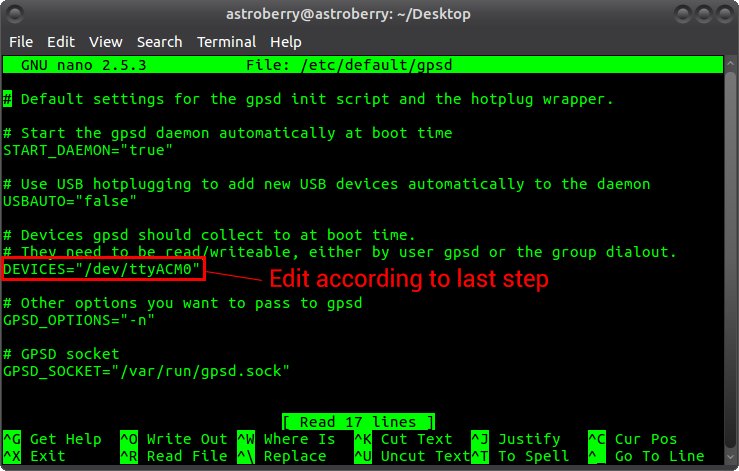
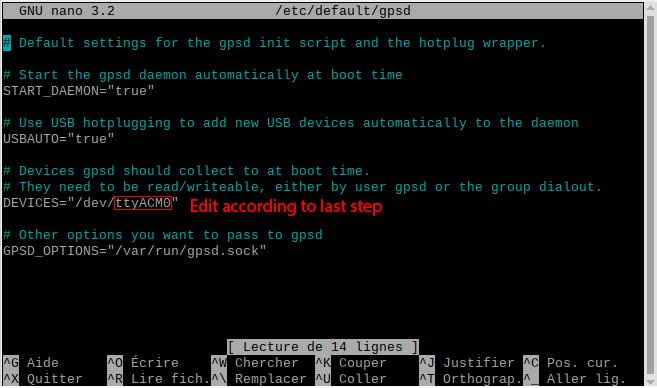
Update tutorial for Raspberry Pi 4 and Raspberry Pi OS

diff --git a/README.fr.md b/README.fr.md
@@ -1,4 +1,4 @@
-# Contrôler son télescope facilement et pour pas cher avec un Raspberry Pi 3
+# Contrôler son télescope facilement et pour pas cher avec un Raspberry Pi 4
 
 [![HitCount](http://hits.dwyl.io/Kelian98/Easy-astrophotography-equipment-control.svg)](http://hits.dwyl.io/Kelian98/Easy-astrophotography-equipment-control)
 [![Generic badge](https://img.shields.io/badge/languages-EN%2C%20FR-red)](https://shields.io/)
@@ -12,9 +12,9 @@ _Read this in English: https://github.com/Kelian98/Easy-astrophotography-equipme
 
 ![](images/Equipment_with_annotations.jpg)
 
-> Remarque 1 : J'ai attaché le Raspberry Pi au télescope en utilisant du velcro, ça fonctionne plutôt bien !
+> Remarque 1 : J'ai attaché la Raspberry Pi au télescope en utilisant du velcro, ça fonctionne plutôt bien !
 
-> Remarque 2 : Comme vous pouvez le constater, il me reste encore de longs câbles sur cette photo. Depuis, je les ai remplacés par des câbles plus courts.
+> Remarque 2 : Comme vous pouvez vous en douter, le cable management est très important pour tout garder sur le tube optique.
 
 ## 2. Équipement nécessaire
 
@@ -22,34 +22,35 @@ Tout d'abord, nous supposerons que vous avez un tube optique, une monture GoTo, 
 
 Pour notre système, nous utiliserons :
 
-- [Raspberry Pi 3](https://www.amazon.fr/s?k=raspberry+pi+3&__mk_fr_FR=%C3%85M%C3%85%C5%BD%C3%95%C3%91&ref=nb_sb_noss_2 "Raspberry Pi 3") avec boitier, dissipateurs thermiques et carte Micro SD (minimum 32Go)
+- [Raspberry Pi 4 4GO de RAM](https://www.amazon.fr/s?k=raspberry+pi+3&__mk_fr_FR=%C3%85M%C3%85%C5%BD%C3%95%C3%91&ref=nb_sb_noss_2 "Raspberry Pi 4") avec boitier, dissipateurs thermiques et carte Micro SD (minimum 16Go)
 - [Batterie externe USB](https://www.amazon.fr/s?k=batterie+externe&__mk_fr_FR=%C3%85M%C3%85%C5%BD%C3%95%C3%91&ref=nb_sb_noss_1 "Batterie externe USB") ayant une capacité d'au moins 10,000mAh et une sortie 2.1-2.5A.
-- [Câble spécifique](https://www.pierro-astro.com/materiel-astronomique/accessoires-informatiques/interface-usb-heq5-direct-pour-montures-heq5-neq5-neq3-orion-sirius_detail "Câble spécifique") pour connecter la monture à la Raspberry Pi 3.
+- [Câble spécifique](https://www.pierro-astro.com/materiel-astronomique/accessoires-informatiques/interface-usb-heq5-direct-pour-montures-heq5-neq5-neq3-orion-sirius_detail "Câble spécifique") pour connecter la monture à la Raspberry Pi 4.
 - [GPS USB](https://www.amazon.fr/s?k=vk-172&__mk_fr_FR=%C3%85M%C3%85%C5%BD%C3%95%C3%91&ref=nb_sb_noss_2 "GPS USB") pour obtenir la localisation précise du lieu où le télescope se trouve (j'utilise un Vk-172, mais le Vk-162 est doté d'une meilleure antenne et est également compatible).
 
-Comme vous pouvez le constater, cela coûte environ 100€, bien moins cher qu’un ordinateur astro dédié fonctionnant sous Windows avec des logiciels commerciaux et nécessitant une alimentation 12V.
+Comme vous pouvez le constater, cela coûte environ 120€, bien moins cher qu’un ordinateur astro dédié fonctionnant sous Windows avec des logiciels commerciaux et nécessitant une alimentation 12V.
 
-> Remarque : Vous pouvez économiser un peu d'argent si vous possèdez des résistances chauffantes USB pour vos tubes optiques comme [celles-ci](https://www.amazon.fr/COOWOO-Chauffe-Objectif-r%C3%A9gulateur-temp%C3%A9rature-t%C3%A9lescopique/dp/B07MHGW4DG/ref=sr_1_5?__mk_fr_FR=%C3%85M%C3%85%C5%BD%C3%95%C3%91&keywords=r%C3%A9sistance+chauffante+usb&qid=1565702995&s=gateway&sr=8-5). En effet, l’achat d’une batterie externe USB d’une capacité supérieure à 10 000 mAh (disons +20 000 mAh) vous permet d’alimenter le Raspberry Pi et vos résistances chauffantes USB pendant une nuit. Et c'est plus pratique que d'avoir de longs câbles partant de votre batterie AGM 12V jusqu'au télescope en mouvement. Voir [Consommation d'énergie mesurée du Raspberry Pi 3](https://raspi.tv/2016/how-much-power-does-raspberry-pi3b-use-how-fast-is-it-compared-to-pi2b) pour plus d'informations.
+> Remarque : Vous pouvez économiser un peu d'argent si vous possèdez des résistances chauffantes USB pour vos tubes optiques comme [celles-ci](https://www.amazon.fr/COOWOO-Chauffe-Objectif-r%C3%A9gulateur-temp%C3%A9rature-t%C3%A9lescopique/dp/B07MHGW4DG/ref=sr_1_5?__mk_fr_FR=%C3%85M%C3%85%C5%BD%C3%95%C3%91&keywords=r%C3%A9sistance+chauffante+usb&qid=1565702995&s=gateway&sr=8-5). En effet, l’achat d’une batterie externe USB d’une capacité supérieure à 10 000 mAh (disons +20 000 mAh) vous permet d’alimenter la Raspberry Pi et vos résistances chauffantes USB pendant une nuit. Et c'est plus pratique que d'avoir de longs câbles partant de votre batterie AGM 12V jusqu'au télescope en mouvement. Voir [Consommation d'énergie mesurée du Raspberry Pi 4](https://www.pidramble.com/wiki/benchmarks/power-consumption) pour plus d'informations.
 
 ## 3. Logiciel
 
-On va mettre [Ubuntu Mate 16.04](https://ubuntu-pi-flavour-maker.org/download/ "Ubuntu Mate 16.04") sur le Raspberry Pi 3. Il s'agit d'un OS open-source basé sur Linux. Nous installerons des logiciels d’astronomie, notamment Kstars et Ekos (bibliothèque INDI), que nous utiliserons principalement.
+On va mettre la dernière version de [Raspberry Pi OS](https://www.raspberrypi.org/downloads/raspberry-pi-os/ "Raspberry Pi OS") sur la Raspberry Pi 4. Il s'agit d'un OS open-source basé sur Linux. Nous installerons des logiciels d’astronomie, notamment Kstars et Ekos (bibliothèque INDI), que nous utiliserons principalement.
 
-> Remarque : Je n'utilise pas la version la plus récente 18.04 pour l'instant, car celle-ci n'est pas aussi stable et performante que la 16.04.
+> Remarque : Je conseille d'installer la version avec Desktop uniquement, étant donné qu'on n'utilisera pas une grande partie des logiciels recommandés.
 
-### 3.1 Installation d'Ubuntu Mate 16.04
+### 3.1 Installation de Raspberry Pi OS
 
-Premièrement, vous pouvez obtenir l'image d'Ubuntu Mate 16.04 sur ce lien : https://ubuntu-pi-flavour-maker.org/download/.</br>
+Premièrement, vous pouvez obtenir l'image de Raspberry Pi OS depuis ce lien : https://www.raspberrypi.org/downloads/raspberry-pi-os/.</br>
 Ensuite, si vous êtes sous Windows, téléchargez la dernière version de Etcher à partir de ce lien : https://www.balena.io/etcher/.</br>
 Enfin, obtenez la version gratuite de Winrar pour décompresser le fichier image : https://www.win-rar.com/start.html?&L=0.
 
-Maintenant que nous avons terminé l’installation des logiciels, voyons comment installer Ubuntu Mate 16.04 sur le Raspberry Pi 3.
+Maintenant que nous avons terminé l’installation des logiciels, voyons comment installer Raspberry Pi OS sur la Raspberry Pi 4.
 
 1. Décompressez le fichier d’extension .xz téléchargé ci-dessus avec WinRar.
 2. Insérez simplement votre carte Micro SD (à l'intérieur de l'adaptateur pour le format SD) dans la fente pour carte SD de votre ordinateur.
 3. Lancez Etcher, sélectionnez le fichier d’extension .img précédemment décompressé, sélectionnez le lecteur de votre carte SD et cliquez sur Flash!
 4. Attendez la fin du processus ... La vitesse d'écriture dépend de votre carte Micro SD (classe 10 ou supérieure est un bon choix pour une utilisation avec Raspberry Pi).
-5. Une fois le process terminé, éjectez votre carte SD de votre ordinateur et insérez-la dans le Raspberry Pi 3.
+5. Une fois le process terminé, éjectez votre carte SD de votre ordinateur et insérez-la dans la Raspberry Pi 4.
+6. Démarrez la Raspberry Pi 4 avec la carte SD et branchez une souris, un clavier et un moniteur. Si tout a été fait correctement, la carte démarrera et vous amènera à la configuration du système d'exploitation Raspberry Pi. Suivez les étapes requises.
 
 > Remarque: Certains des logiciels cités ci-dessus existent également pour les distributions MacOS et Linux.
 
@@ -60,14 +61,18 @@ Maintenant que nous avons terminé l’installation des logiciels, voyons commen
 Pour installer INDI, Ekos et Kstars, assurez-vous que votre Raspberry Pi est bien connecté à Internet et suivez les étapes :
 
 1. Ouvrez un terminal de commande en appuyant sur CTRL + ALT + T ou en faisant un clic-droit sur le Bureau puis en sélectionnant "Ouvrir dans un terminal".
-2. Entrez la commande suivante : `sudo apt-add-repository ppa:mutlaqja/ppa`.
-3. Ensuite, entrez : `sudo apt-get update`.
-4. Une fois la MAJ finie, vous pouvez installer INDI avec la commande `sudo apt-get install indi-full gsc`.
-5. Enfin, pour installer Ekos et Kstars : `sudo apt-get install indi-full kstars-bleeding`.
+2. Entrez les commandes suivantes :
+```
+wget -O - https://www.astroberry.io/repo/key | sudo apt-key add -
+sudo su -c "echo 'deb https://www.astroberry.io/repo/ buster main' > /etc/apt/sources.list.d/astroberry.list"
+sudo apt update
+```
+3. Ensuite, une fois la MAJ finie, vous pouvez installer INDI avec la commande: `sudo apt install indi-full gsc`.
+4. Enfin, pour installer Ekos et Kstars : `sudo apt-get install indi-full kstars-bleeding`.
 
 Tous les logiciels principaux ont été téléchargés et installés !
 
-> Source : https://www.indilib.org/download/ubuntu.html
+> Source : https://indilib.org/get-indi/download-rpi.html
 
 #### Astrometry.net pour le Platesolving
 
@@ -77,12 +82,12 @@ _Platesolving est une technique qui mesure avec précision le point de visée du
 Si vous êtes loin de chez vous ou que vous ne pouvez pas utiliser Internet pour votre séance d'imagerie, vous devrez télécharger localement le catalogue d'étoiles sur votre appareil pour que le Platesolving fonctionne en hors-connexion :
 
 1. Ouvrez un terminal de commande en appuyant sur CTRL + ALT + T ou en faisant un clic-droit sur le Bureau puis en sélectionnant "Ouvrir dans un terminal".
-2. Entrez cette commande : `sudo apt-get install astrometry.net`
-3. Ensuite, récupérez les fichiers d’index à partir de cette page: https://indilib.org/about/ekos/alignment-module.html. Je vous suggère de les télécharger à partir de votre ordinateur de bureau et de transférer les packages ultérieurement sur votre Raspberry via une clé USB ou tout autre support de média externe.
+2. Normalement, astrometry.net devrait déjà être installé. Vous pouvez vérifier en entrant cette commande : `sudo apt-get install astrometry.net`
+3. Ensuite, récupérez les fichiers d’index à partir de cette page: http://data.astrometry.net/4100/. Je vous suggère de les télécharger à partir de votre ordinateur de bureau et de transférer les packages ultérieurement sur votre Raspberry Pi via une clé USB ou tout autre support de média externe. Sinon, vous pouvez ouvrir un terminal et choisir un chemin de destination, puis taper : `wget http://data.astrometry.net/4100/index-4107.fits` pour chacune des images.
 4. Copier les fichiers sur le bureau de votre Raspberry Pi dans un dossier appelé "Platesolving_files".
-5. Cliquez avec le bouton droit sur Bureau et sélectionnez "Ouvrir dans le terminal". Exécutez `cd Platesolving_Files` et`ls`. Les noms des fichiers d'index doivent apparaître.
-6. Exécutez `sudo dpkg -i name_of_index_files.deb` pour chaque fichier d’index que vous avez. Cela prendra pas mal de temps...
-7. Tous les fichiers requis pour platesolve en hors connexion sont maintenant installés!
+5. Copiez le contenu de ce dossier dans le dossier spécifique où astrometry.net va chercher les fichiers de platesolving : `sudo cp /home/pi/Desktop/Platesolving_files /usr/share/astrometry/`
+![](images/copy_astrometry_to_directory.png)
+6. Tous les fichiers requis pour platesolve en hors connexion sont maintenant installés!
 
 Par défaut, Ekos envoie une image sur le serveur astrometry.net. Veillez à bien modifier les paramètres en sélectionnant "offline".
 
@@ -92,8 +97,9 @@ Par défaut, Ekos envoie une image sur le serveur astrometry.net. Veillez à bie
 
 Cette sous-section vise à installer les pilotes requis si vous souhaitez utiliser un reflex numérique non reconnu directement par Ekos. Dans mon cas, je n’ai pas pu contrôler mon Nikon D3300 sous Windows malgré toutes les tentatives effectuées avec de nombreux logiciels (Sequence Generator Pro, BackyardNikon, APT Astrophotography Tool, etc).
 
-J'ai trouvé un pilote appelé gPhoto pour Linux disponible [ici](http://www.gphoto.org/proj/libgphoto2/support.php "ici") dans lequel vous pouvez trouver tous les appareils photo reflex numériques compatibles. J'ai également pu trouver un bon tutoriel qui m'a permis de l'installer sur le Raspberry Pi 3.
-Vous avez juste à suivre ces instructions : [Install libgphoto2 and gphoto2 from source on Raspberry Pi](https://hyfrmn.wordpress.com/2015/02/03/install-libgphoto2-and-gphoto2-from-source-on-raspberry-pi/ "Install libgphoto2 and gphoto2 from source on Raspberry Pi")
+J'ai trouvé un pilote appelé gPhoto pour Linux disponible [ici](http://www.gphoto.org/proj/libgphoto2/support.php "ici") dans lequel vous pouvez trouver tous les appareils photo reflex numériques compatibles. J'ai également pu trouver un bon tutoriel qui m'a permis de l'installer sur la Raspberry Pi 4.
+Normalement, il devrait être déjà installé quand on a procédé à l'installation de INDI, Ekos et Kstars.
+Si ce n'est pas le cas, vous avez juste à suivre ces instructions : [Install libgphoto2 and gphoto2 from source on Raspberry Pi](https://hyfrmn.wordpress.com/2015/02/03/install-libgphoto2-and-gphoto2-from-source-on-raspberry-pi/ "Install libgphoto2 and gphoto2 from source on Raspberry Pi")
 
 #### GPS
 
@@ -104,7 +110,7 @@ Si vous utilisez le Vk-162 ou le Vk-172, procédez comme suit :
 3. Installer le package gpsd : `sudo apt-get install gpsd`.
 4. Pour voir sur quel port le GPS est connecté, tapez : `ls /dev/tty*`. Lors du branchement / débranchement du GPS, certaines adresses telles que /dev/ttyACM0 or /dev/ttyACM1 devraient apparaître et disparaître . **Notez-les**.<br/></br>
    ![](images/GPS_current_port.png)
-5. Maintenant, vous devez configurer le fichier GPS par défaut. Tapez `sudo pico /etc/default/gpsd` and replacez le champ DEVICES="port obtenu à l'étape 4" tel quel.<br/></br>
+5. Maintenant, vous devez configurer le fichier GPS par défaut. Tapez `sudo nano /etc/default/gpsd` and replacez le champ DEVICES="port obtenu à l'étape 4" tel quel.<br/></br>
    ![](images/edit_default_file.png)
 6. Appuyez sur CTRL + X pour quitter et enregistrer les modifications en appuyant sur Y lorsque vous y êtes invité.
 7. Toujours dans le terminal de commande, tapez : `service gpsd restart`.
@@ -146,19 +152,20 @@ Lorsque vous démarrez INDI, vous devriez voir quelque chose comme ceci dans la 
 
 > Note : Si vous cliquez sur **GPS** dans la section _Refresh_, les coordonnées seront mises à jour.
 
-### 3.4 Configurer le Raspberry Pi pour une utilisation "bureau à distance"
+### 3.4 Configurer la Raspberry Pi pour une utilisation "bureau à distance"
 
 #### VNC
 
-Sur le terrain, vous ne pourrez peut-être pas disposer d'un moniteur de bureau, d'un clavier, d'une souris, etc. Mais vous pouvez utiliser votre ordinateur portable ou votre smartphone pour contrôler le Raspberry Pi avec **Connexion réseau virtuelle**. Bien pratique en hiver, de rester dans la voiture à l'abri du froid et de pouvoir contrôler son matos durant la session d'acquisition en mode, le tout sans-fil ! Nous utiliserons RealVNC, qui est gratuit et facile à configurer. Vous pouvez obtenir l'application RealVNC Viewer pour n'importe quelle plateforme ici: https://www.realvnc.com/fr/connect/download/viewer/
+Sur le terrain, vous ne pourrez peut-être pas disposer d'un moniteur de bureau, d'un clavier, d'une souris, etc. Mais vous pouvez utiliser votre ordinateur portable ou votre smartphone pour contrôler la Raspberry Pi avec **Connexion réseau virtuelle**. Bien pratique en hiver, de rester dans la voiture à l'abri du froid et de pouvoir contrôler son matos durant la session d'acquisition en mode, le tout sans-fil ! Nous utiliserons RealVNC, qui est gratuit et facile à configurer. Vous pouvez obtenir l'application RealVNC Viewer pour n'importe quelle plateforme ici: https://www.realvnc.com/fr/connect/download/viewer/
 
-Voyons comment installer RealVNC Server sur le Raspberry Pi:
+RealVNC Server est déjà installé par défaut sur la Raspberry Pi.
+Si ce n'est pas le cas, procédez comme suit :
 
 1. Accédez à cette page et téléchargez le fichier: https://www.realvnc.com/en/connect/download/vnc/raspberrypi/.
 2. Déplacez-le sur le bureau de votre Raspberry Pi, ouvrez un terminal et exécutez `sudo dpkg -i name_of_package.deb`.
 3. Une fois terminé, si vous exécutez `vncserver`, une connexion VNC sera établie à partir du Raspberry et vous donnera l’adresse IP.
 4. Avec votre autre appareil (smartphone, ordinateur portable ...), accédez à l'application VNC Viewer, puis ajoutez la connexion Raspberry Pi avec l'adresse IP ci-dessus et le mot de passe de session.
-5. Vous devriez pouvoir contrôler le Raspberry à partir de votre autre appareil sans aucun fil !
+5. Vous devriez pouvoir contrôler la Raspberry à partir de votre autre appareil sans aucun fil !
    </br> </br>
    ![](images/vnc_desktop.jpg)
 
@@ -166,10 +173,10 @@ Voyons comment installer RealVNC Server sur le Raspberry Pi:
 
 #### Hotspot
 
-Si vous ne disposez pas d'une connexion Internet, le Raspberry peut créer son propre point d'accès WiFi.
+Si vous ne disposez pas d'une connexion Internet, la Raspberry peut créer son propre point d'accès WiFi.
 Vous pouvez procéder de la sorte pour créer le Hotspot : http://ubuntuhandbook.org/index.php/2016/04/create-wifi-hotspot-ubuntu-16-04-android-supported/.
-Vous pouvez également définir la connexion en **mode automatique**. Désormais, lorsque le Raspberry démarrera, il créera automatiquement un réseau sans fil personnel.
-En connectant votre smartphone ou votre ordinateur portable à ce point d'accès WiFi, vous pouvez utiliser le VNC et contrôler facilement le Raspberry.
+Vous pouvez également définir la connexion en **mode automatique**. Désormais, lorsque la Raspberry démarrera, il créera automatiquement un réseau sans fil personnel.
+En connectant votre smartphone ou votre ordinateur portable à ce point d'accès WiFi, vous pouvez utiliser le VNC et contrôler facilement la Raspberry.
 
 Vous remarquerez que même si vous êtes connecté au Hotspot, vous ne pouvez pas utiliser VNC car le service doit être démarré à partir du Raspberry Pi lui-même.
 Ce que je recommande, c’est d’abord de vous connecter à votre Raspberry en **SSH**, puis de démarrer le service VNC.
@@ -186,7 +193,7 @@ Ce que je recommande, c’est d’abord de vous connecter à votre Raspberry en 
 ## 4. Workflow habituel
 
 1. Connectez tous vos équipements au Raspberry Pi (DSLR, caméra de guidage, GPS, support ...).
-2. Démarrez le Raspberry Pi. Il créera automatiquement son propre Hotspot.
+2. Démarrez la Raspberry Pi. Il créera automatiquement son propre Hotspot.
 3. Connectez votre PC ou votre smartphone au Hotspot.
 4. Lancez le client SSH sur votre appareil et connectez-vous au Raspberry Pi.
 5. Démarrez le serveur VNC à partir de SSH.

diff --git a/README.md b/README.md
@@ -14,7 +14,7 @@ _Lire ce document en français : https://github.com/Kelian98/Easy-astrophotograp
 
 > Note 1 : I have attached my Raspberry Pi with velcro strips, it works great.
 
-> Note 2 : As you can see, I still have crazy long cables hanging on this picture. Since, I have replaced them with shorter cables and tied them up.
+> Note 2 : As you can see, cable management is very important to keep everything steady on the scope, which I haven't done yet.
 
 ## 2. Equipment needed
 
@@ -22,35 +22,35 @@ First of all, we will assume that you have some scope, GoTo mount, camera, guidi
 
 For our system, we will use :
 
-- [Raspberry Pi 3](https://www.amazon.com/s?k=raspberry+pi+3&ref=nb_sb_noss_1:// "Raspberry Pi 3") with case, heatsinks and Micro SD Card (32Go or more recommended)
-- [USB Power Bank](https://www.amazon.com/s?k=power+bank&ref=nb_sb_noss_2 "USB Power Bank") with a capacity of at least 10,000mAh and 2.1-2.5A USB output
+- [Raspberry Pi 4 4GB RAM](https://thepihut.com/collections/raspberry-pi-kits-and-bundles/products/raspberry-pi-starter-kit?variant=20336446079038 "Raspberry Pi 4") with case, power supply and Micro SD Card (16Go or more recommended)
+- [USB Power Bank](https://www.amazon.com/s?k=power+bank&ref=nb_sb_noss_2 "USB Power Bank") with a capacity of at least 15,000mAh and 2.1-2.5A USB output
 - [Specific cable](https://www.firstlightoptics.com/sky-watcher-mount-accessories/lynx-astro-ftdi-eqdir-usb-adapter-for-sky-watcher-eq5-pro-heq5-syntrek-pro-az-eq5-gt-az-eq6-gt-and-eq8-mounts.html "Specific cable") to connect your mount to the board (in this case, EQDIR cable for SkyWatcher mounts)
 - [GPS USB Dongle](https://www.amazon.com/s?k=vk-172&ref=nb_sb_noss_1 "GPS USB Dongle") to obtain precise location (I use a Vk-172, but Vk-162 is built with a better antenna and is also compatible)
 
-As you can see, it costs around 100\$, far cheaper than a dedicated astro computer running on Windows with commercial softwares which run on 12V power supply.
+As you can see, it costs around 120\$, far cheaper than a dedicated astro computer running on Windows with commercial softwares which run on 12V power supply.
 
-> Note : You can save some money if you have a USB powered dew-heater for your scope such as [these](https://www.amazon.com/Telescopes-Temperature-Control-Devices-Freezing/dp/B07R299MQT/ref=sr_1_4?keywords=dew%2Bheater%2Busb&qid=1564516783&s=gateway&sr=8-4&th=1). Indeed, buying a USB powerbank with more capacity than 10,000mAh (let's say +20,000mAh) let you power the Raspberry Pi and your dew-heater(s) for a night long. And it's more convenient than having long cables from the floor with your 12V AGM Battery ascending to the moving telescope. See [Raspberry Pi 3 measured power consumption](https://raspi.tv/2016/how-much-power-does-raspberry-pi3b-use-how-fast-is-it-compared-to-pi2b) for further information.
+> Note : You can save some money if you have a USB powered dew-heater for your scope such as [these](https://www.amazon.com/Telescopes-Temperature-Control-Devices-Freezing/dp/B07R299MQT/ref=sr_1_4?keywords=dew%2Bheater%2Busb&qid=1564516783&s=gateway&sr=8-4&th=1). Indeed, buying a USB powerbank with more capacity than 10,000mAh (let's say +20,000mAh) let you power the Raspberry Pi and your dew-heater(s) for a night long. And it's more convenient than having long cables from the floor with your 12V AGM Battery ascending to the moving telescope. See [Raspberry Pi 4 measured power consumption](https://www.pidramble.com/wiki/benchmarks/power-consumption) for further information.
 
-## 3. Setting up the Raspberry Pi
+## 3. Software
 
-We will run [Ubuntu Mate 16.04](https://ubuntu-pi-flavour-maker.org/download/ "Ubuntu Mate 16.04") on the Raspberry Pi 3. This is an open-source OS based on Linux. We will install astronomy softwares including Kstars and Ekos (INDI Library) we will be mainly using.
+We will run the latest version of [Raspberry Pi OS](https://www.raspberrypi.org/downloads/raspberry-pi-os/ "Raspberry Pi OS") on the Raspberry Pi 4. This is an open-source OS based on Linux made for the Raspberry Pi microcomputer. We will install astronomy softwares including Kstars and Ekos (INDI Library) we will be mainly using.
 
-> Note : I don't use the newest version (18.04) for now, because it is not stable as the 16.04.
+> Note : I recommend installing the version with Desktop only, since we will not be using much of the recommended software.
 
-### 3.1 Install Ubuntu Mate 16.04
+### 3.1 Install Raspberry Pi OS
 
-First, get the image from this link : https://ubuntu-pi-flavour-maker.org/download/.</br>
+First, get the image from this link : https://www.raspberrypi.org/downloads/raspberry-pi-os/</br>
 Then, if you are on Windows, download the latest version of Etcher from this link : https://www.balena.io/etcher/.</br>
 Finally, get the free version of Winrar to unpack the image file : https://www.win-rar.com/start.html?&L=0.
 
-Now that we have finished with softwares installations, let's flash Ubuntu Mate on the Raspberry Pi 3.
+Now that we have finished with softwares installations, let's flash Raspberry Pi OS on the Raspberry Pi 4.
 
 1. Unpack .xz extension file downloaded above with WinRar.
 2. Simply insert your Micro SD Card (inside the adaptor for SD format) in your SD Card slot of your computer.
 3. Start Etcher, select the previously unpacked .img extension file, select the drive of your SD Card, and click on Flash !
 4. Wait until process is finished... Writing speed depends on your Micro SD Card (class 10 or better is a good choice for Raspberry Pi usage).
-5. When it's done, eject your SD Card from your computer and insert it into the Raspberry Pi 3.
-6. Start the Raspberry Pi 3 with SD Card and plug in a mouse, a keyboard and a monitor. If everything has been done correctly, it will boot up and get you to Ubuntu Mate installation. Complete the steps required. You can connect it to your personal newtork by clicking on WLAN logo at the top-right of the screen.
+5. When it's done, eject your SD Card from your computer and insert it into the Raspberry Pi 4.
+6. Start the Raspberry Pi 4 with SD Card and plug in a mouse, a keyboard and a monitor. If everything has been done correctly, it will boot up and get you to Raspberry Pi OS installation. Complete the steps required.
 
 > Note : Some of the softwares cited above exist for MacOS and Linux distributions as well.
 
@@ -61,14 +61,18 @@ Now that we have finished with softwares installations, let's flash Ubuntu Mate 
 To install INDI, Ekos and Kstars, make sure your Raspberry Pi is connected to the Internet and follow this steps :
 
 1. Open a command terminal by pressing CTRL + ALT + T or right-click on Desktop and select "Open in terminal".
-2. Run the following command : `sudo apt-add-repository ppa:mutlaqja/ppa`.
-3. Then, type `sudo apt-get update`.
-4. After the update is finished, you can install INDI with `sudo apt-get install indi-full gsc`.
-5. Finally, to install Ekos and Kstars : `sudo apt-get install indi-full kstars-bleeding`.
+2. Run the following commands :
+```
+wget -O - https://www.astroberry.io/repo/key | sudo apt-key add -
+sudo su -c "echo 'deb https://www.astroberry.io/repo/ buster main' > /etc/apt/sources.list.d/astroberry.list"
+sudo apt update
+```
+3. After the update is finished, you can install INDI with `sudo apt-get install indi-full gsc`.
+4. Finally, to install Ekos and Kstars : `sudo apt-get install indi-full kstars-bleeding`.
 
 All the main softwares have been downloaded and installed !
 
-> Source : https://www.indilib.org/download/ubuntu.html
+> Source : https://indilib.org/get-indi/download-rpi.html
 
 #### Astrometry.net for Platesolving
 
@@ -77,12 +81,14 @@ In order to get full control of your astrophotography rig, you may want to do pl
 If you are far away from home or you can't have internet while imaging, you will have to download the star catalog locally on your device to do "offline" platesolving :
 
 1. Open a command terminal by pressing CTRL + ALT + T or right-click on Desktop and select "Open in terminal".
-2. Run this command : `sudo apt-get install astrometry.net`
-3. Then, get the index files from this page : https://indilib.org/about/ekos/alignment-module.html. I suggest to download them from your desktop computer and transfer the packages later to your Raspberry.
+2. Run this command to check if astrometry.net has been successfully installed with previous commands : `sudo apt-get install astrometry.net`
+3. Then, get the index files from this page : http://data.astrometry.net/4100/. I suggest to download them from your desktop computer and transfer the packages later to your Raspberry Pi. Otherwise, you can download them by launching a terminal and entering : `wget http://data.astrometry.net/4100/index-4107.fits`
 4. Copy the files to the Raspberry Pi Desktop in a folder called "Platesolving_Files".
-5. Right-click on Desktop and select "Open in terminal". Run `cd Platesolving_Files` and `ls`. Names of index files should appear.
-6. Run `sudo dpkg -i name_of_index_files.deb` for each index files you have. It will take some time...
+5. Copy the content of this folder to the specific folder where astrometry.net will look for the platesolving files : `sudo cp /home/pi/Desktop/Platesolving_files /usr/share/astrometry/`
+![](images/copy_astrometry_to_directory.png)
 7. All required files for offline platesolving are now installed !
+
+By default, Ekos sends an image to the astrometry.net server. Make sure to change the settings by selecting "offline".
 
 > Sources : https://www.ccdware.com/help/ccdap5/hs670.htm ; https://indilib.org/about/ekos/alignment-module.html
 
@@ -90,7 +96,8 @@ If you are far away from home or you can't have internet while imaging, you will
 
 This sub-section aims to install required drivers if you want to use a DSLR not directly recognized by Ekos. In my case, I wasn't able to control my Nikon D3300 on Windows despite all attempts with many softwares (Sequence Generator Pro, BackyardNikon, APT Astrophotography Tool, etc). That's why I switched to Linux for astrophotography.
 
-I found a driver called gPhoto for Linux ([here](http://www.gphoto.org/proj/libgphoto2/support.php "here") you can find all compatible DSLR Cameras) that was compatible with my camera. Normally, it is already installed on your Raspberry Pi if you have carefully followed the processus to get INDI, Ekos and Kstars. Otherwise, I was able to find a good tutorial to install it on the Raspberry Pi 3.
+I found a driver called gPhoto for Linux ([here](http://www.gphoto.org/proj/libgphoto2/support.php "here") you can find all compatible DSLR Cameras) that was compatible with my camera. Normally, it is already installed on your Raspberry Pi if you have carefully followed the processus to get INDI, Ekos and Kstars. Otherwise, I was able to find a good tutorial to install it on the Raspberry Pi 4.
+Normally, it should already be installed when installing INDI, Ekos and Kstars.
 Just need to follow the instructions : [Install libgphoto2 and gphoto2 from source on Raspberry Pi](https://hyfrmn.wordpress.com/2015/02/03/install-libgphoto2-and-gphoto2-from-source-on-raspberry-pi/ "Install libgphoto2 and gphoto2 from source on Raspberry Pi")
 
 #### GPS
@@ -102,7 +109,7 @@ If you use the Vk-162 or Vk-172, you can follow this steps :
 3. Install gpsd package : `sudo apt-get install gpsd`.
 4. To see on which port the GPS is connected, type : `ls /dev/tty*`. When plugging/unplugging the GPS, some address such as /dev/ttyACM0 or /dev/ttyACM1 should appear and disappear. **Keep it in mind**.<br/></br>
    ![](images/GPS_current_port.png)
-5. Now you have to configure the GPS default file. Type `sudo pico /etc/default/gpsd` and edit DEVICES="port obtained at step 4".<br/></br>
+5. Now you have to configure the GPS default file. Type `sudo nano /etc/default/gpsd` and edit DEVICES="port obtained at step 4".<br/></br>
    ![](images/edit_default_file.png)
 6. Press CTRL + X to exit and save changes by pressing Y when asked.
 7. Again in terminal, type : `service gpsd restart`.
@@ -150,7 +157,8 @@ When starting INDI, you should see something like this under **GPSD** section :<
 
 In the field, you may be unable to have a desktop monitor, keyboard, mouse, etc. But you can use your laptop or smartphone to control the Raspberry Pi with **Virtual Network Connection**. We will use RealVNC which is free and easy to configure. You can get the RealVNC Viewer app for any platform here : https://www.realvnc.com/fr/connect/download/viewer/
 
-Let's see how to install RealVNC Server on the Raspberry Pi :
+RealVNC Server is installed by default on the Raspberry Pi.
+If it is not the cas, procede as follow :
 
 1. Go to this page and download the file : https://www.realvnc.com/en/connect/download/vnc/raspberrypi/.
 2. Move it to your Raspberry Pi desktop, open a terminal and run `sudo dpkg -i name_of_package.deb`.
